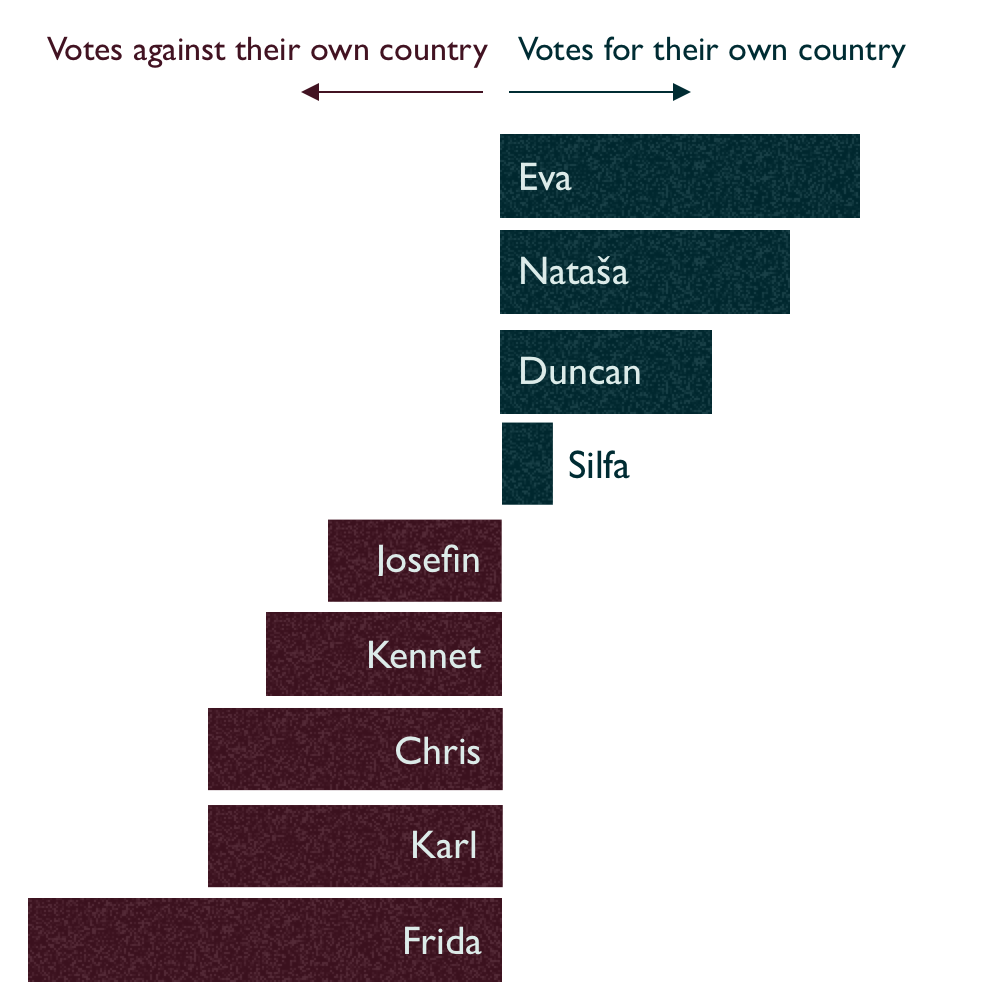
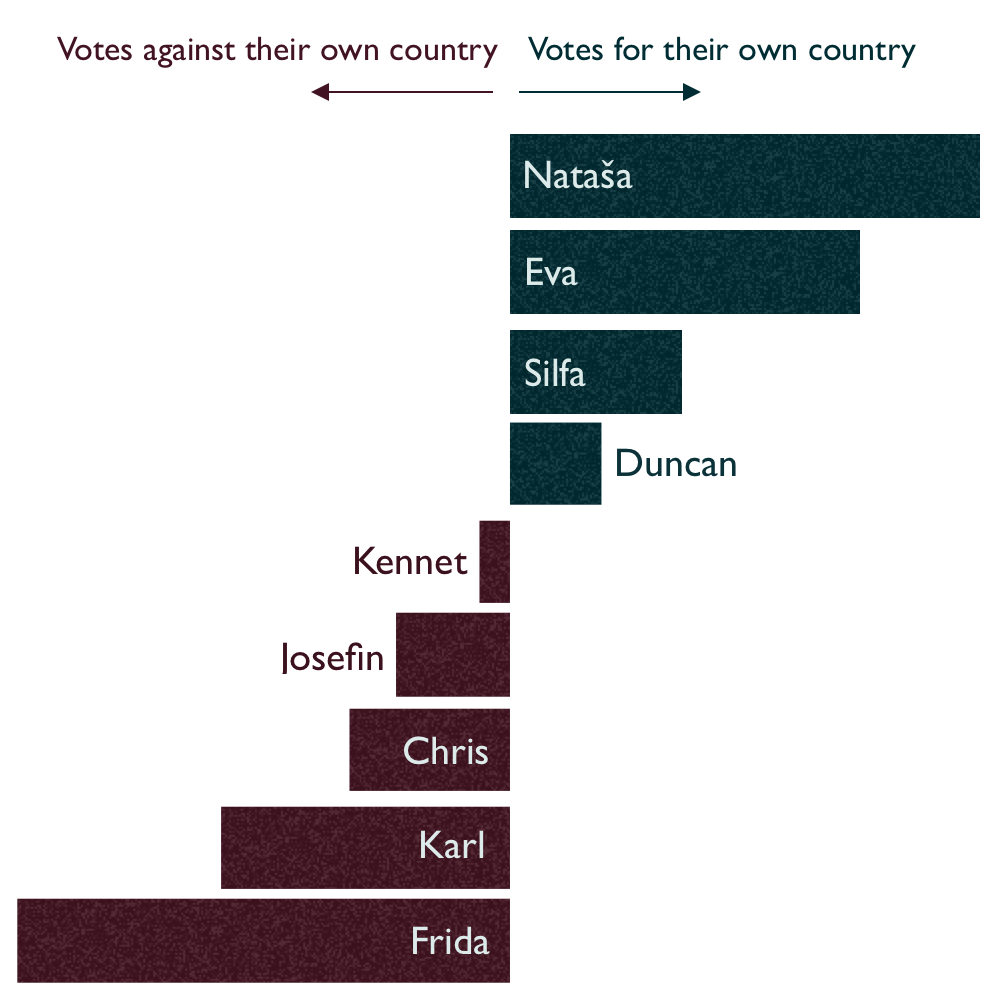
Fixed own_country after Danny's feedback

diff --git a/index.html b/index.html
@@ -82,7 +82,7 @@
     <p>Despoina, Scott and Nikos were the most generous voters. The least generous were Chris, Nataša and Kennet</p>
 
     <h2>Do people vote higher or lower for their own country?</h2>
-    <p>Some people are full of patriotic spirit. Others less so. We can see who gave an above-average score to their own country by subtracting the score they gave to that country from the average vote that others gave it.</p>
+    <p>Some people are full of patriotic spirit. Others less so. We can see who gave an above-average score to their own country by subtracting the score they gave to that country from the average vote that others gave it, while controlling for the generosity of each voter.</p>
     <p>In this analysis, I had to leave out Anton, Nikos & Despoina, whose countries didn't make it to the final, and Scott & Aurora, whose country doesn't participate in Eurovision (yet). Sorry folks!</p>
     <img src="images/own_country.png">
     <p>Of the people whose countries were in the final, Eva, Nataša, Duncan and Silfa (just about) ranked their country higher than others did, while Frida, Karl, Chris, Kennet and Josefin ranked their country lower than others did. What did Sweden ever do to you, Frida?</p>
